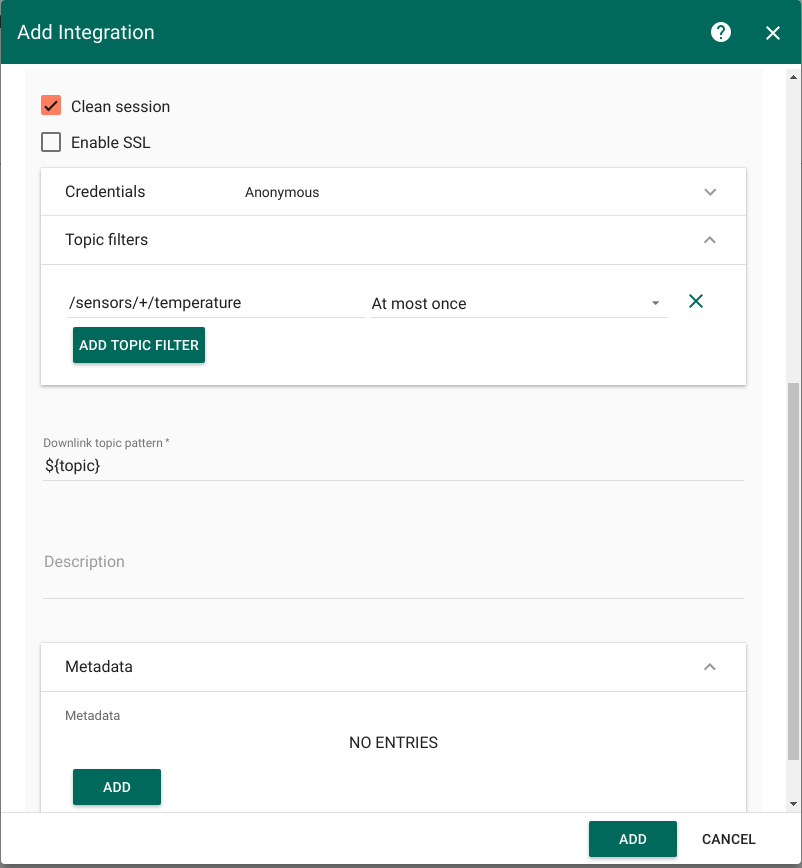
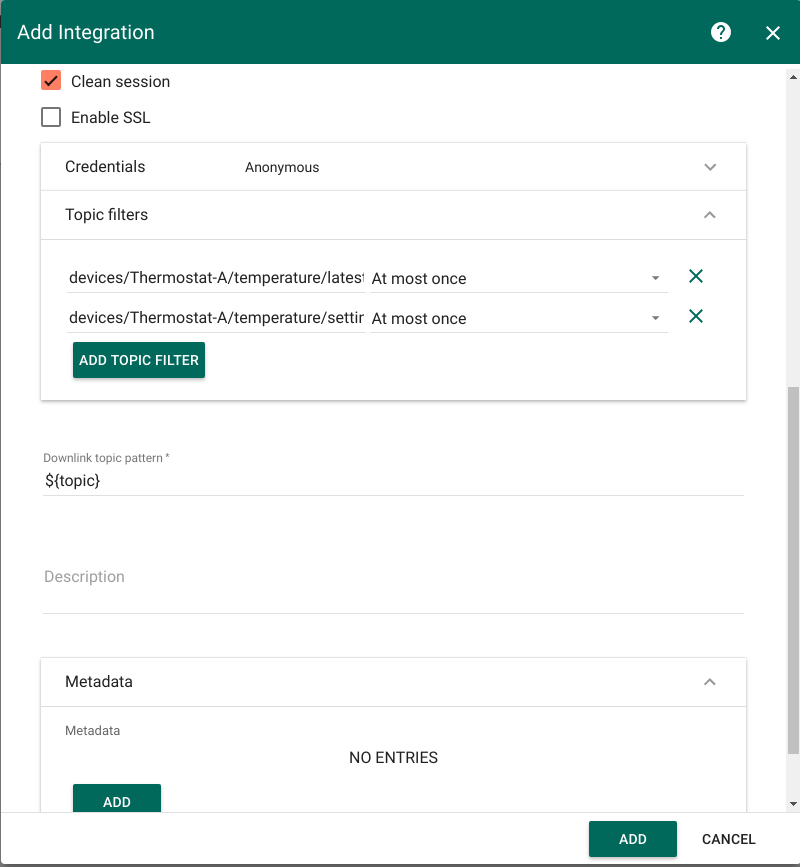
index on master: 771325f fixed alias and attribute

diff --git a/docs/user-guide/integrations/send-data-external-mqtt-brokers.md b/docs/user-guide/integrations/send-data-external-mqtt-brokers.md
@@ -53,24 +53,113 @@ automatically created in the process of integration work.
 
 In order for integration to work, downlink and uplink converters should be created.
 
+- Go to **Data Converters** -> **Add new Data Converter** -> **Import Converter** 
+
+![image](/images/user-guide/rule-engine-2-0/tutorials/mqtt-downlink/import_new_converter.png)
+
+- Import following files: [**downlink converter**](/docs/user-guide/resources/sensor_downlink_converter.json),
+[**uplink converter**](/docs/user-guide/resources/sensor_uplink_converter.json)
+
 Uplink converter should look like this:
 
 ![image](/images/user-guide/rule-engine-2-0/tutorials/mqtt-downlink/mqtt-downlink-uplink-converter.png) 
 
-The full source code of JSON converter used in converter is available
- [**here**](/docs/user-guide/resources/mqtt-downlink-uplink-converter.js). 
 
 Downlink converter should look like this:
 
 ![image](/images/user-guide/rule-engine-2-0/tutorials/mqtt-downlink/mqtt-downlink-downlink-converter.png)
 
-The full source code of JSON converter used in converter is available
- [**here**](/docs/user-guide/resources/mqtt-downlink-downlink-converter.js).
 
 ### Creating integration
 
 For integration to work a remote server should be used. In this case you can use iot.eclipse.org for your MQTT data.
 Integration should look like this:
+
+- Go to **Integrations** -> **Add new Integration**
+
+![image](/images/user-guide/rule-engine-2-0/tutorials/mqtt-downlink/add-new-integration.png)
+
+- Fill in the fields with the input data shown in the following table: 
+
+<table style="width: 25%">
+  <thead>
+      <tr>
+          <td><b>Field</b></td><td><b>Input Data</b></td>
+      </tr>
+  </thead>
+  <tbody>
+      <tr>
+          <td>Name</td>
+          <td>MQTT downlink integration</td>
+      </tr>
+      <tr>
+          <td>Type</td>
+          <td>MQTT</td>
+      </tr>
+      <tr>
+          <td>Debug mode</td>
+          <td>False</td>
+      </tr>
+      <tr>
+          <td>Uplink data converter</td>
+          <td>Sensor Uplink Converter</td>
+      </tr>
+      <tr>
+          <td>Downlink data converter</td>
+          <td>Sensor Downlink Converter</td>
+      </tr>
+      <tr>
+          <td>Host</td>
+          <td>iot.eclipse.org</td>
+      </tr>
+      <tr>
+          <td>Port</td>
+          <td>11883</td>
+      </tr>
+      <tr>
+          <td>Connection timeout(sec)</td>
+          <td>10</td>
+      </tr>
+      <tr>
+          <td>Client ID</td>
+          <td>(empty)</td>
+      </tr>
+      <tr>
+          <td>Clean session</td>
+          <td>True</td>
+      </tr>
+      <tr>
+          <td>Enable SSL</td>
+          <td>False</td>
+      </tr>
+      <tr>
+          <td>Credentials</td>
+          <td>Anonymous</td>
+      </tr>
+      <tr>
+          <td>Topic filters</td>
+          <td>devices/Thermostat-A/temperature/latest - At most once</td>
+      </tr>
+      <tr>
+          <td>Topic filters</td>
+          <td>devices/Thermostat-A/temperature/settings/ - At most once</td>
+      </tr>
+      <tr>
+         <td>Downlink topic pattern</td>
+         <td>${topic}</td>
+      </tr>
+      <tr>
+          <td>Description</td>
+          <td>(empty)</td>
+      </tr>
+      <tr>
+          <td>Metadata</td>
+          <td>(empty)</td>
+      </tr>
+   </tbody>
+</table> 
+
+- After filling all fields click the **ADD** button. 
 
 ![image](/images/user-guide/rule-engine-2-0/tutorials/mqtt-downlink/mqtt-downlink-create-integration-1.png)
 ![image](/images/user-guide/rule-engine-2-0/tutorials/mqtt-downlink/mqtt-downlink-create-integration-2.png)
@@ -118,7 +207,8 @@ Note: virtual device should be put in the folder where node-modules is situated.
 
 Using a control widget (in this case, a knob) leads to value change on the dashboard.
 
-Dashboard can be found [**here**](/docs/user-guide/resources/temperature_control_dashboard.json).
+Dashboard can be found [**here**](/docs/user-guide/resources/temperature_control_dashboard.json) and
+imported like [**this**](docs/user-guide/ui/dashboards/#dashboard-import).
 
 ## Message Flow
 
